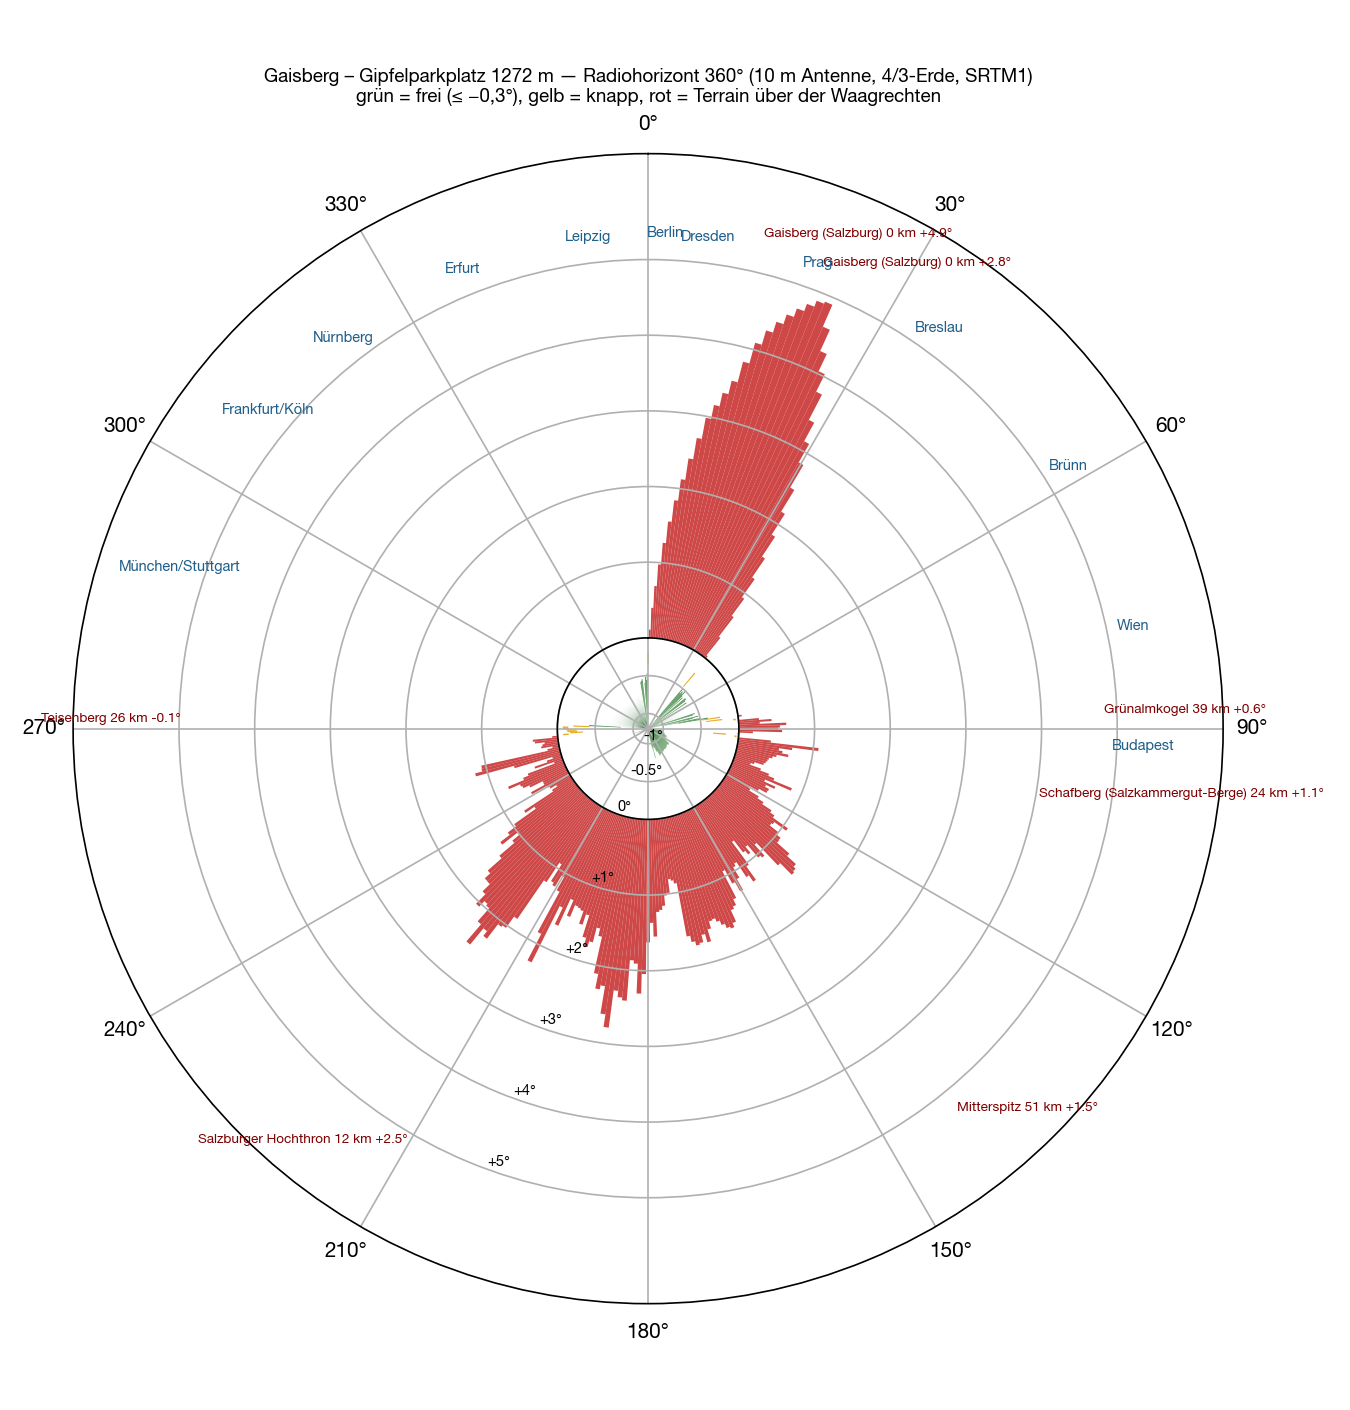
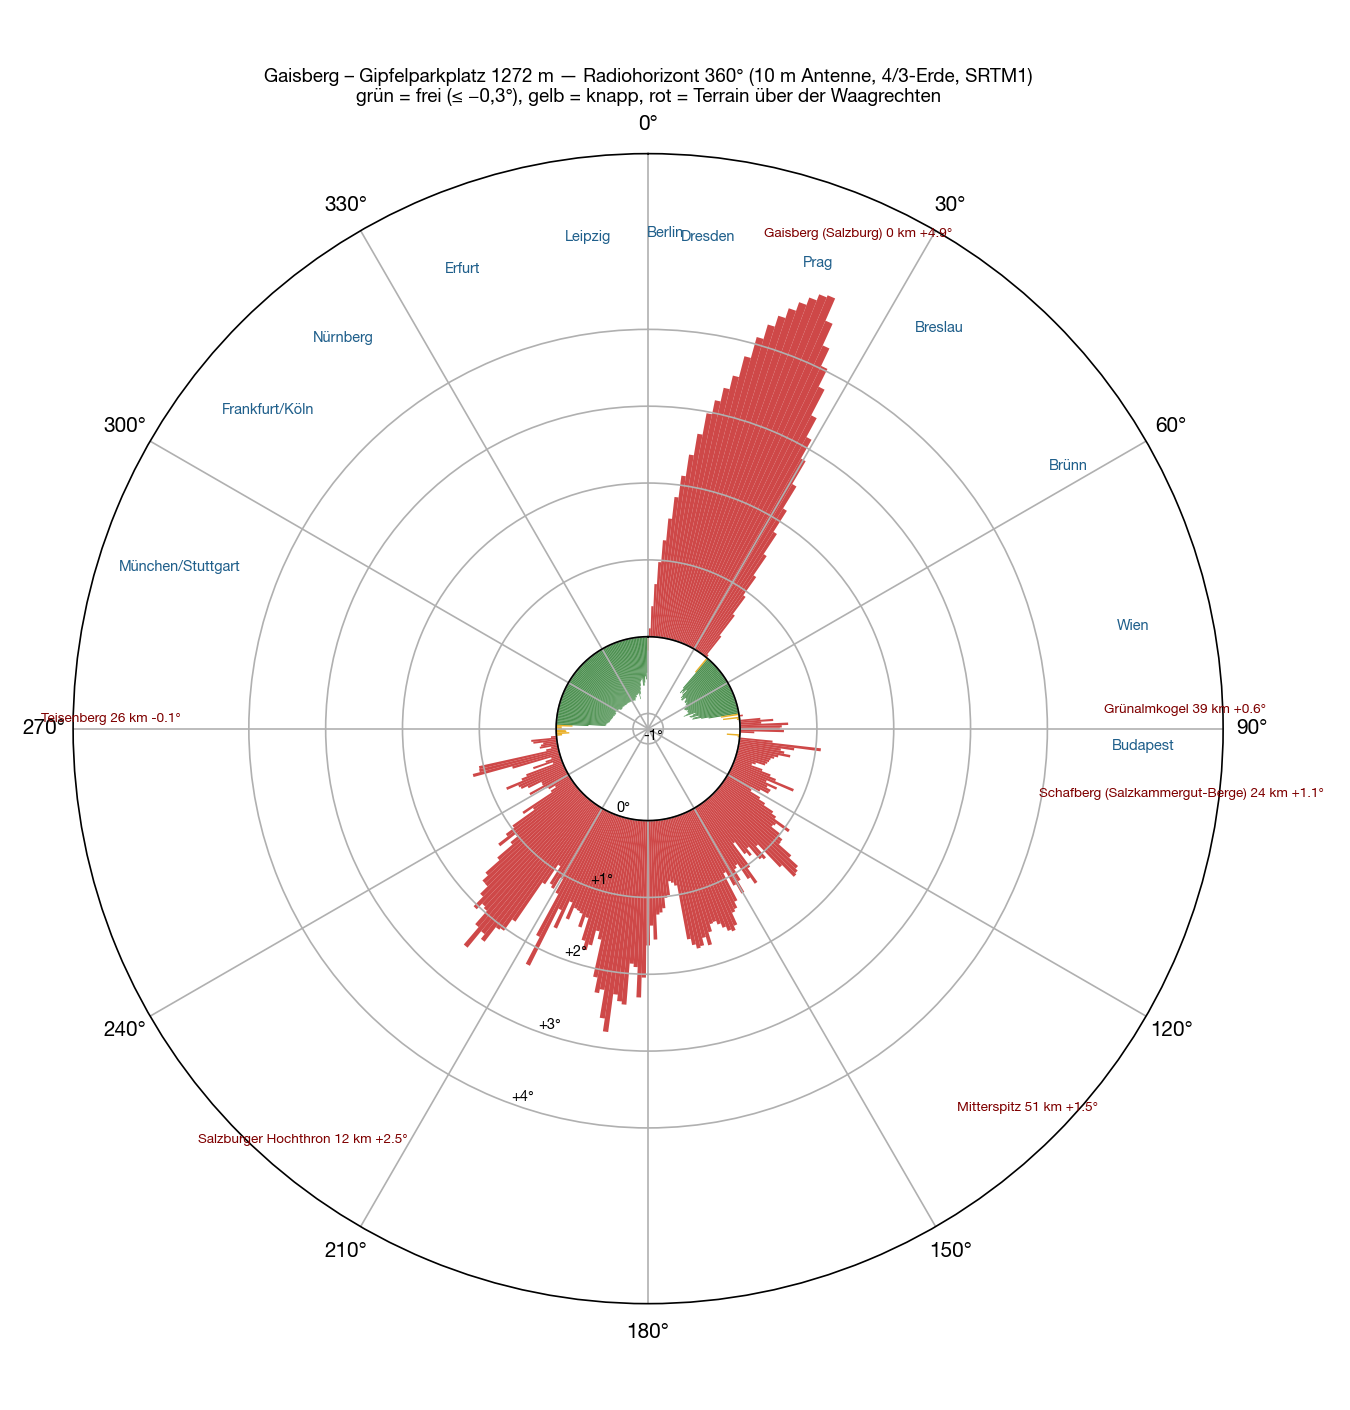
Horizont-Polardiagramme: freie Richtungen waren nach innen gespiegelt gezeichnet — alle elf neu, Maßstab an die Daten angepasst; Stuhleck-Anlagenblatt mit zwei 12JXX2-Stacks

diff --git a/src/content/posts/es/stuhleck-horizont.md b/src/content/posts/es/stuhleck-horizont.md
@@ -98,7 +98,7 @@ El [plano de situación con los dos emplazamientos](/karten/stuhleck-lageplan-st
 
 La consigna era clara: todo contacto lejano vale más que uno cercano, pero la mayoría de los QSO están en Alemania, y allí hay muchas estaciones pequeñas — poder alcanzarlas importa más que el último kilómetro. Así que un cálculo más, con una regla de recuento que lo refleje: una estación cuenta si una antena la tiene por encima del horizonte lejano, con menos de tres decibelios de pérdida en el campo cercano y con la ganancia necesaria en el haz — seis dBi hasta 300 kilómetros, desde ahí tres decibelios por cada cien kilómetros. Las estaciones pequeñas, menos de cincuenta QSO en su mejor concurso, necesitan cuatro decibelios más; las grandes, tres menos. Para Alemania se sumaron a los logs de la IARU las listas de concursos del DARC: 1070 estaciones hasta 750 kilómetros, 567 de ellas pequeñas. Luego 42 combinaciones: dos cuadros o dos Yagis fijas, un stack fijo, cuadro y Yagi mezclados — contra un stack de Yagis, un stack de cuadros o una antena sola en el rotor, también la Yagi de 14 elementos de ANJO como candidata.
 
-![Hoja «La instalación de antenas»: diagrama polar de las 1274 estaciones hasta 500 kilómetros alrededor del Stuhleck, barras por diez grados apiladas por país — la masa en el noroeste y el noreste —, encima la flecha blanca del stack de Yagis fijo en 302°, tres cuñas verdes del stack de cuadros en 20°, 108° y 200° y el sector rojo prohibido; a la derecha las cifras frente al primer plan](../../../assets/karten/stuhleck-antennenanlage.png)
+![Hoja «La instalación de antenas»: diagrama polar de las 1274 estaciones hasta 500 kilómetros alrededor del Stuhleck, barras por diez grados apiladas por país — la masa en el noroeste y el noreste —, encima la flecha blanca del stack de Yagis fijo en 302°, tres cuñas verdes estrechas del segundo stack de 12JXX2 en 18°, 158° y 216° y el sector rojo prohibido; a la derecha las cifras frente a los planes anteriores](../../../assets/karten/stuhleck-antennenanlage.png)
 
 El resultado da la vuelta al primer plan. **Las dos 12JXX2 van apiladas en el mástil 2, posición de reposo 302°** — Ratisbona, Núremberg, Passau, Bayreuth, Hof, con 17,8 dBi, Múnich en el borde del haz con trece, que basta para doscientos kilómetros. **Los dos cuadros van apilados en el rotor del mástil 1**, 69 grados de ancho, 14,5 dBi, tres posiciones: **20°** Breslavia, Brno, Ostrava, Cracovia, Viena — el segundo gran bloque, 405 estaciones; **108°** Budapest, Belgrado, Hungría, Serbia; **200°** Zagreb, Rijeka, Liubliana, Trieste, Venecia, hasta donde lo permite la prohibición. El entorno cercano está en dos bloques anchos que una antena ancha atiende sin girar constantemente; la lejanía necesita la ganancia que solo tiene el stack — y Alemania necesita ambas cosas.
 
@@ -110,7 +110,7 @@ Los mástiles son más cortos de lo pensado: diez metros para los cuadros, siete
 
 El [plano de situación en PDF, revisión 4](/karten/stuhleck-lageplan-antennenanlage.pdf) tiene la instalación tal como queda: coordenadas, alturas de mástil, direcciones, distancias, fuentes.
 
-**Añadido, 29 de septiembre: también dos Yagis en el mástil 1.** En lugar del stack de cuadros, un segundo stack de 12JXX2 va en el rotor del mástil 1, a 6,4 y 9,7 metros, como en el Feuerkogel. El lóbulo se estrecha, 34 en vez de 69 grados, con 3,3 decibelios más. Las tres posiciones, calculadas con la misma regla y fuera del sector prohibido: **18°** Breslavia, Brno, Viena, Poznań; **158°** Sarajevo, Split, Banja Luka, Skopie; **216°** Liubliana, Rijeka, Trieste, Venecia, Bolonia. Con 500 vatios en cada stack son **948 estaciones en vez de 894**, Alemania 316 como antes, y 330 000 en vez de 270 000 kilómetros — la ganancia llega más lejos. Conmutado con un kilovatio son 1308 en vez de 1331: a corta distancia el cuadro ancho consigue más, 1006 frente a 869 hasta 500 kilómetros; las Yagis consiguen a cambio la distancia. La escena 3D ya muestra los dos stacks de Yagis; las cifras de arriba en esta sección valen para el plan con los cuadros.
+**Añadido, 29 de septiembre: también dos Yagis en el mástil 1.** En lugar del stack de cuadros, un segundo stack de 12JXX2 va en el rotor del mástil 1, a 6,4 y 9,7 metros, como en el Feuerkogel. El lóbulo se estrecha, 34 en vez de 69 grados, con 3,3 decibelios más. Las tres posiciones, calculadas con la misma regla y fuera del sector prohibido: **18°** Breslavia, Brno, Viena, Poznań; **158°** Sarajevo, Split, Banja Luka, Skopie; **216°** Liubliana, Rijeka, Trieste, Venecia, Bolonia. Con 500 vatios en cada stack son **948 estaciones en vez de 894**, Alemania 316 como antes, y 330 000 en vez de 270 000 kilómetros — la ganancia llega más lejos. Conmutado con un kilovatio son 1308 en vez de 1331: a corta distancia el cuadro ancho consigue más, 1006 frente a 869 hasta 500 kilómetros; las Yagis consiguen a cambio la distancia. La hoja de arriba y la escena 3D ya muestran los dos stacks de Yagis; el texto de arriba describe todavía el plan con los cuadros.
 
 ## Los datos
 

diff --git a/src/content/posts/en/stuhleck-horizont.md b/src/content/posts/en/stuhleck-horizont.md
@@ -98,7 +98,7 @@ The [site plan with both sites](/karten/stuhleck-lageplan-standorte-a-b.pdf) has
 
 The brief was clear: every long contact is better than a near one, but most QSOs are to be had in Germany, and many small stations sit there — being able to reach them matters more than the last kilometre. So one more calculation, with a counting rule that reflects that: a station counts if an antenna has it above the far horizon, under three decibels of near-field loss and with the required gain in the beam — six dBi up to 300 kilometres, from there three decibels per hundred kilometres. Small stations, under fifty QSOs in their best contest, need four decibels more, big ones three less. For Germany the DARC contest lists joined the IARU logs: 1,070 stations within 750 kilometres, 567 of them small. Then 42 combinations: two quads or two Yagis fixed, one stack fixed, quad and Yagi mixed — against a Yagi stack, a quad stack or a single antenna on the rotator, ANJO’s 14-element Yagi as a candidate too.
 
-![Sheet “The antenna installation”: polar diagram of the 1,274 stations within 500 kilometres of the Stuhleck, bars per ten degrees stacked by country — the mass in the north-west and north-east —, over it the white arrow of the fixed Yagi stack on 302°, three green wedges of the quad stack on 20°, 108° and 200° and the red no-go sector; at right the numbers against the first plan](../../../assets/karten/stuhleck-antennenanlage.png)
+![Sheet “The antenna installation”: polar diagram of the 1,274 stations within 500 kilometres of the Stuhleck, bars per ten degrees stacked by country — the mass in the north-west and north-east —, over it the white arrow of the fixed Yagi stack on 302°, three narrow green wedges of the second 12JXX2 stack on 18°, 158° and 216° and the red no-go sector; at right the numbers against the earlier plans](../../../assets/karten/stuhleck-antennenanlage.png)
 
 The result turns the first plan around. **The two 12JXX2 go stacked on mast 2, rest position 302°** — Regensburg, Nuremberg, Passau, Bayreuth, Hof, at 17.8 dBi, Munich at the beam’s edge with thirteen, which is enough for two hundred kilometres. **The two quads go stacked on the rotator of mast 1**, 69 degrees wide, 14.5 dBi, three positions: **20°** Wrocław, Brno, Ostrava, Kraków, Vienna — the second big block, 405 stations; **108°** Budapest, Belgrade, Hungary, Serbia; **200°** Zagreb, Rijeka, Ljubljana, Trieste, Venice, as far as the no-go allows. The near range lies in two broad blocks that a wide antenna serves without constant turning; the far range needs the gain only the stack has — and Germany needs both.
 
@@ -110,7 +110,7 @@ The masts are shorter than thought: ten metres for the quads, seven and a half f
 
 The [site plan as PDF, revision 4](/karten/stuhleck-lageplan-antennenanlage.pdf) has the installation as it stands: coordinates, mast heights, directions, distances, sources.
 
-**Update, 29 September: two Yagis on mast 1 as well.** Instead of the quad stack, a second 12JXX2 stack goes on the rotator of mast 1, at 6.4 and 9.7 metres, as on the Feuerkogel. The lobe gets narrower, 34 instead of 69 degrees, with 3.3 decibels more. The three positions, calculated with the same rule and outside the no-go sector: **18°** Wrocław, Brno, Vienna, Poznań; **158°** Sarajevo, Split, Banja Luka, Skopje; **216°** Ljubljana, Rijeka, Trieste, Venice, Bologna. With 500 watts on each stack that makes **948 stations instead of 894**, Germany 316 as before, and 330,000 instead of 270,000 kilometres — the gain reaches further. Switched with one kilowatt it is 1,308 instead of 1,331: at close range the wide quad gets more, 1,006 against 869 within 500 kilometres, the Yagis get the distance instead. The 3D scene already shows both Yagi stacks; the figures above in this section apply to the plan with the quads.
+**Update, 29 September: two Yagis on mast 1 as well.** Instead of the quad stack, a second 12JXX2 stack goes on the rotator of mast 1, at 6.4 and 9.7 metres, as on the Feuerkogel. The lobe gets narrower, 34 instead of 69 degrees, with 3.3 decibels more. The three positions, calculated with the same rule and outside the no-go sector: **18°** Wrocław, Brno, Vienna, Poznań; **158°** Sarajevo, Split, Banja Luka, Skopje; **216°** Ljubljana, Rijeka, Trieste, Venice, Bologna. With 500 watts on each stack that makes **948 stations instead of 894**, Germany 316 as before, and 330,000 instead of 270,000 kilometres — the gain reaches further. Switched with one kilowatt it is 1,308 instead of 1,331: at close range the wide quad gets more, 1,006 against 869 within 500 kilometres, the Yagis get the distance instead. The sheet above and the 3D scene already show both Yagi stacks; the text above still describes the plan with the quads.
 
 ## The data
 
